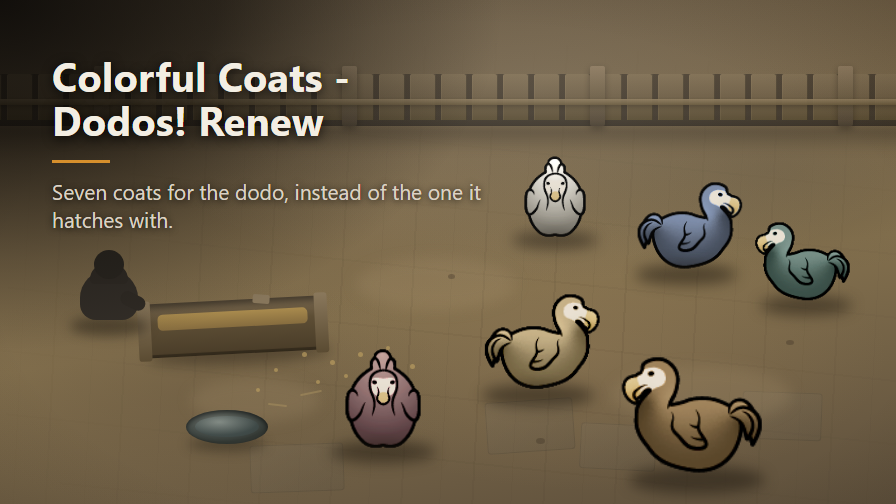
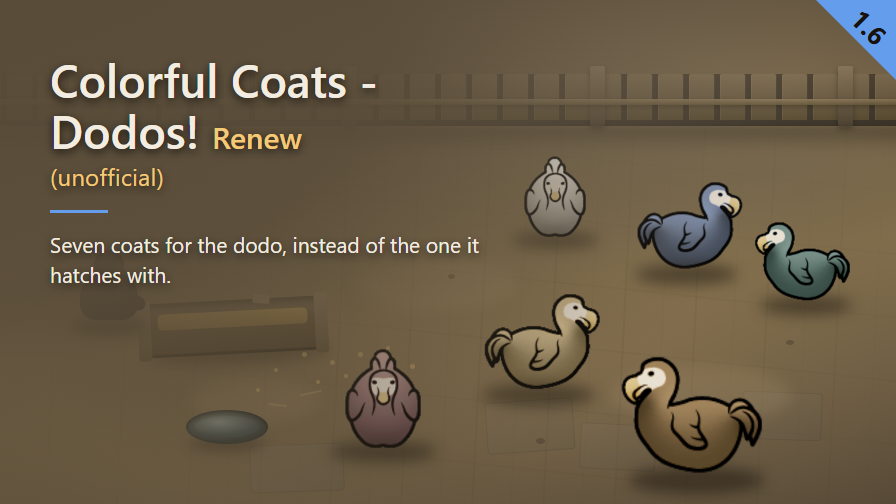
Update dodo preview overlay and preserve composition sources

diff --git a/Art/preview.html b/Art/preview.html
@@ -1,0 +1,29 @@
+<!doctype html>
+<html lang="en"><meta charset="utf-8"><title>Dodos Preview composition</title>
+<style>
+*{box-sizing:border-box;margin:0;padding:0}
+html,body{width:896px;height:504px;overflow:hidden;font-family:"Segoe UI",system-ui,sans-serif}
+body{background:url('Preview.png') center/cover no-repeat}
+.veil{position:absolute;inset:0;background:radial-gradient(ellipse 800px 620px at top left, rgb(var(--veil-rgb) / .96) 0%,rgb(var(--veil-rgb) / .90) 48%,rgb(var(--veil-rgb) / 0) 100%)}
+main{position:absolute;left:50px;top:54px;color:var(--inkPrimary);text-shadow:0 3px 10px rgba(0,0,0,.75)}
+h1{font-size:46px;font-weight:600;line-height:1.1;letter-spacing:0;width:460px}
+h1 .suffix{font-size:.65em;color:var(--inkSecondary)}
+.tag{width:max-content;margin-top:8px;font-size:24px;font-weight:400;line-height:1.1;letter-spacing:.2px;color:var(--inkSecondary)}
+.rule{width:58px;height:3px;background:var(--accent);margin-top:20px;margin-bottom:16px}
+.summary{font-size:21px;font-weight:400;line-height:1.45;letter-spacing:0;width:430px}
+.badge{position:absolute;right:0;top:0;width:80px;height:80px;background:var(--accent);clip-path:polygon(0 0,100% 0,100% 100%)}
+.version{position:absolute;left:869px;top:27px;transform:translate(-50%,-50%) rotate(45deg);font-size:26px;font-weight:700;line-height:1;color:var(--badgeInk)}
+.background-only main{visibility:hidden}.background-only .version{visibility:hidden}
+</style>
+<div class="veil"></div>
+<main><h1>Colorful Coats -<br>Dodos! <span class="suffix">Renew</span></h1><p class="tag">(unofficial)</p><div class="rule"></div><p class="summary">Seven coats for the dodo, instead of the one it hatches with.</p></main>
+<div class="badge"></div><div class="version">1.6</div>
+<script>
+window.ready=(async()=>{
+ const palette=await (await fetch('preview-palette.json')).json();
+ for(const [key,value] of Object.entries(palette))document.documentElement.style.setProperty('--'+key,value);
+ document.documentElement.style.setProperty('--veil-rgb',palette.veil.slice(1).match(/../g).map(v=>parseInt(v,16)).join(' '));
+ await document.fonts.ready;
+ await Promise.all([...document.images].map(i=>i.decode()));
+})();
+</script></html>

diff --git a/STATUS.md b/STATUS.md
@@ -1,12 +1,21 @@
 ---
-mod:          Colorful Coats - Dodos! Renew
+mod:          Colorful Coats - Dodos! Renew (unofficial)
 packageId:    nelim.colorfulcoats.dodosrenew
 repo:         Rimworld-Colorful-Coats-Dodos-Renew
-visibility:   public
+remote:       https://github.com/vbardales/Rimworld-Colorful-Coats-Dodos-Renew.git
+local_path:   C:/Users/nelim/Documents/rimworld/ColorfulCoatsDodosRenew
+maintainer:   Codex, current repository task
+visibility:   silent
+github_visibility: public
 detached:     yes
 stage:        preTest
 licence:      silent
-licence_at:   four places, the About and the Steam page among them
+licence_port: MIT, port additions only
+licence_original: no declared licence found in installed original or live Steam description
+visibility_checked: 2026-09-12, original files and live Steam description
+licence_at:   LICENSE, Mod/LICENSE, Mod/About/About.xml, ATTRIBUTION.md
+title_suffix: (unofficial), already present
+github_description: present
 dependencies: to check
 showcase:     complete
 tested_on:
@@ -14,7 +23,7 @@ workshop:
 remaining:
   - unverified: never seen running
 session:      local_1a82a4f4-4e37-4fcb-87b4-1b86d5c52392
-updated:      2026-09-12, automatic sweep
+updated:      2026-09-12, verified by repository maintainer
 ---
 
 # Colorful Coats - Dodos! Renew — status
@@ -22,8 +31,23 @@ updated:      2026-09-12, automatic sweep
 Read by a sweep across every mod, rather than by asking each thread in turn. It lives at the
 root, never inside `Mod/`, so Steam never receives it.
 
-The fields above were read off the disk on 2026-09-12. Four cannot be, and wait for whoever
-holds this mod:
+Codex now maintains this file for this repository and updates it as work progresses.
+The local Git root is the folder above, with its own `.git` directory and no Git superproject.
+This task covers this standalone repository, no longer the monorepo.
+GitHub CLI confirmed PUBLIC visibility on 2026-09-12; origin fetch and push use the remote above.
+
+The mod title in `Mod/About/About.xml` already ends with `(unofficial)`, consistent with the
+unofficial port notice. No additional suffix is needed. The description itself includes
+`https://github.com/vbardales/Rimworld-Colorful-Coats-Dodos-Renew`; the `<url>` field matches it.
+
+Both `LICENSE` and `Mod/LICENSE` grant MIT only for the port additions: patch changes,
+showcase art, packaging and documentation. They explicitly exclude purpleyam's original
+coats, chances and 21 textures. The repository records no declared licence for those original
+elements; original files and the live Steam description were independently rechecked on 2026-09-12.
+The `silent` classification is retained for the original material, not for the port additions.
+
+The existing preTest stage is retained: no in-game validation was performed in this audit.
+The tracking fields use these conventions:
 
 - **`stage`** — one of `port`, `showcase`, `preTest`, `done`, `tested`, `published`. Filled in
   from the session group where one exists; confirm it.
@@ -37,6 +61,88 @@ holds this mod:
   release, `defect` for a known fault left unfixed, `unverified` for what could not be checked.
   The line already there is true of nearly the whole repository; replace it once it stops being.
 
-`licence` vocabulary: `open` an explicit licence, `silent` no licence and a dead source,
-`alive` no licence but a living source, `forbidden` a written refusal, `original` owing nothing
-to anyone — not a name, not an idea traceable to one mod, not a value derived from its assets.
+`visibility` records the mod's provenance and permission category: `original` for original work,
+`open` for an explicit upstream licence, `silent` for no declared upstream licence,
+and `forbidden` for an explicit refusal. Here it is `silent`, because the original material
+has no declared licence according to the repository attribution. The MIT licence for the port
+additions does not change that category. `licence` retains the same classification for compatibility.
+`github_visibility` separately records whether the GitHub repository is public or private.
+
+## Visibility recheck — 2026-09-12
+
+`visibility: silent` retained after checking:
+
+- Installed original: `C:/Program Files (x86)/Steam/steamapps/workshop/content/294100/2388053651`.
+  File inventory contains no licence file. Its `About/About.xml` has no licence, permission
+  statement or repository URL; supported versions are 1.2, 1.3 and 1.4.
+  Searches of the original XML/text files found no redistribution grant or explicit refusal.
+- [Original Steam page](https://steamcommunity.com/sharedfiles/filedetails/?id=2388053651&l=english),
+  fetched directly during this recheck: description contains no licence, redistribution grant,
+  explicit refusal or GitHub link. It credits Erin for the original texture and purpleyam for
+  the colour variants. No separate licence for Erin's underlying texture was established here.
+- The port's MIT grant remains limited to its additions. No evidence found warrants changing
+  the category to `open`, `original` or `forbidden`. Absence of a grant is not implicit permission.
+
+Expanded Steam audit: all six public Workshop items listed on purpleyam's profile were checked
+directly, including descriptions, all 151 comments, all 19 changelog entries and discussion
+indexes (zero topics for every item). Comment counts returned by Steam matched the number
+of comments retrieved, so this was not limited to the first page.
+
+| Workshop item | ID | Comments checked | Changelog entries |
+| --- | --- | ---: | ---: |
+| Colorful Coats - Dodos! | 2388053651 | 13 | 4 |
+| Scarification for Everyone | 2648112257 | 13 | 2 |
+| More Ideological Words | 2643795171 | 59 | 3 |
+| Colorful Coats - Megafauna! | 2560113727 | 15 | 2 |
+| Colorful Coats - Vanilla Animals Expanded! | 2398446130 | 31 | 5 |
+| Colorful Coats - Cats and Dogs! | 2388932599 | 20 | 3 |
+
+Also checked the public [author profile](https://steamcommunity.com/profiles/76561198342847927/),
+[Workshop listing](https://steamcommunity.com/profiles/76561198342847927/myworkshopfiles/?appid=294100)
+and [author collection](https://steamcommunity.com/sharedfiles/filedetails/?id=2773216059)
+(six items, zero comments/discussions). No author repository link or general reuse policy found.
+
+Relevant exception: on [More Ideological Words](https://steamcommunity.com/sharedfiles/filedetails/?id=2643795171),
+purpleyam permits translations on 2022-02-15 and 2022-08-25. Those replies address translations
+of that mod; they do not grant permission to redistribute the dodo textures or all of the author's
+mods. The GitHub reference in that item's comments is Sarg Bjornson suggesting his own code,
+and a linked Gist is a third-party error log, not purpleyam's repository.
+
+An author reply on 2024-04-03 discusses checking their mods for 1.5, so the original's 1.4
+declaration must not be used to assert author inactivity or abandonment. No new permission
+or refusal applicable to Dodos was found: `visibility: silent` remains the supported category.
+Scope covers these public Steam pages as retrieved on 2026-09-12, not deleted/private content
+or private correspondence; no message was sent to the author.
+Firecrawl CLI was unavailable; web search and a direct HTTP fetch were used instead.
+
+## Preview overlay — 2026-09-12
+
+- Final output: `Mod/About/Preview.png`, 896 × 504, 341,177 bytes (under 900 KB).
+- Text-free illustration: `Art/Preview.png`, copied unchanged from `Art/Preview-source.png`.
+  No illustration replacement or generation; the original source remains available at that path.
+- Composition and layout parameters: `Art/preview.html`; reproducible capture and contrast
+  checks: `Art/render-preview.cjs` (Node.js, Playwright, Sharp, installed Chrome).
+- Sole colour reference: `Art/preview-palette.json`, loaded by the HTML.
+  The veil follows the brown earth and wood shadows of the large background surfaces.
+  The vivid blue accent comes from the blue dodo's plumage, with increased saturation and
+  lightness. The secondary ink follows the dominant ochre earth/wood family, lightened to
+  a coloured golden tone for contrast. The cool blue accent clearly separates from this warm
+  ochre family at both output sizes. These are subject and material choices, not pixel averages.
+- Existing title and summary retained; `(unofficial)` moved to its dedicated tag line.
+  Updated title hierarchy: `Renew` is a direct span at 0.65em (29.9 px), weight 600,
+  using secondary ink; the strong title words stay at 46 px in primary ink. No nested reduction.
+  Badge `1.6` is the highest stable supported version declared in `Mod/About/About.xml`.
+- Actual fonts confirmed through Chrome's platform-font API: Segoe UI Semibold for the
+  title, Segoe UI regular for tag/summary, Segoe UI Bold for version. No fallback.
+  Capture waits for `document.fonts.ready`. Title 46 px; remaining metrics follow the guide.
+- Dark coloured veil uses an extended opacity plateau (.96 at origin, .90 through 48%,
+  fading to zero at 100% in an 800 × 620 px ellipse) to keep the full summary above 4.5:1.
+  Title, tag and summary retain the guide's dark-veil shadow; badge digits have no shadow.
+- Contrast measured against every background pixel within each text rectangle, with text
+  and shadows hidden: primary title 5.18:1, `Renew` 5.09:1, tag 5.11:1,
+  summary 4.65:1; badge 6.69:1.
+  Evidence: `Art/preview-qa.json` and `Art/preview-background.png`.
+- Visually checked at 896 × 504 and 268 px wide (`Art/preview-268.png`): title and version
+  identifiable, reduced `Renew` readable, blue rule visible and distinct from the golden
+  secondary ink, no clipping or overlap. Summary is intended for full-size reading.
+- Local assets only; nothing published. In-game test status is unchanged.
